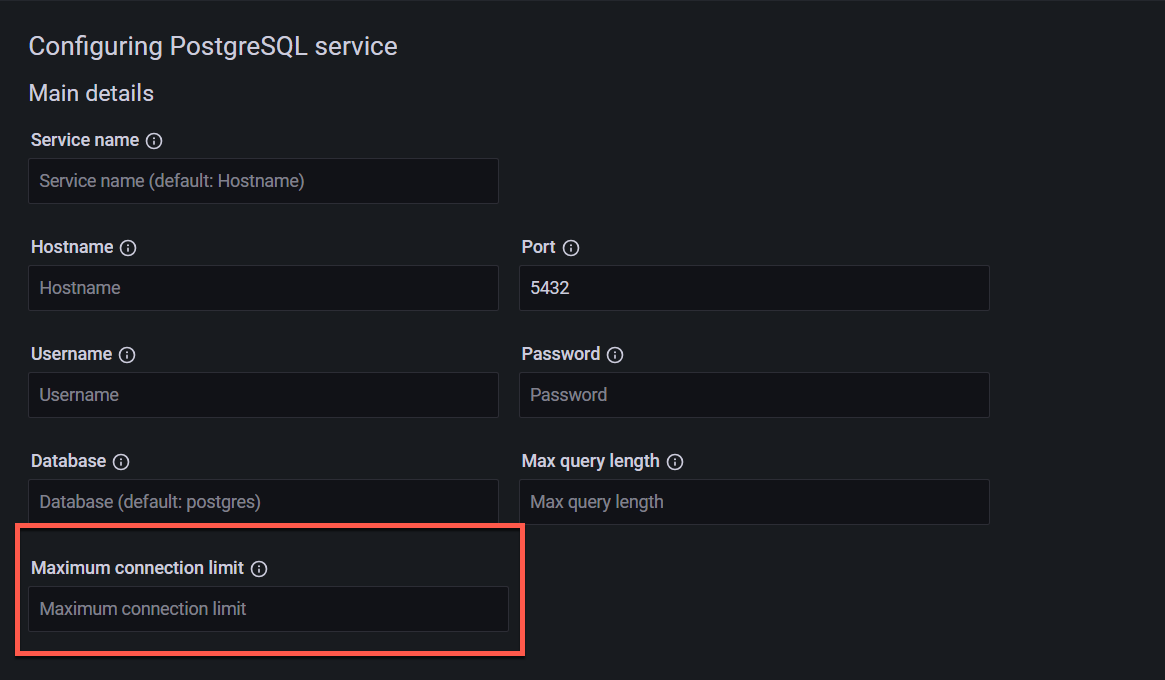
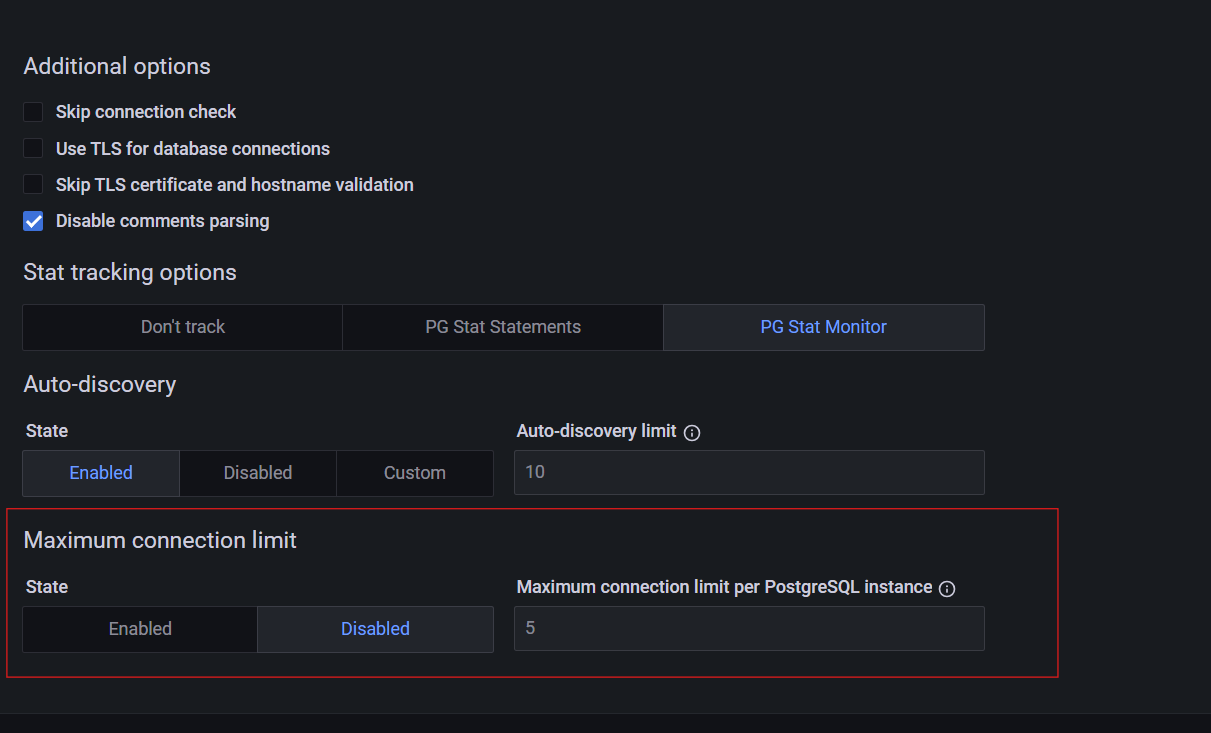
updated SCR

diff --git a/docs/release-notes/2.42.md b/docs/release-notes/2.42.md
@@ -34,16 +34,16 @@ This feature is currently accessible via the PMM API and will be integrated into
 
 ## Improved connection management for PostgreSQL Services and pmm-agent
 
-PMM now offers enhanced connection management capabilities for PostgreSQL services and the PMM Agent, to optimize resource utilization prevent potential performance issues caused by excessive connections.
+PMM now offers enhanced connection management capabilities for PostgreSQL services and the PMM Agent, to optimize resource utilization and prevent potential performance issues caused by excessive connections.
 
 ### PostgreSQL services
 
-For PostgreSQL services, you can now set a maximum limit on the number ofconnections that the PostgreSQL exporter can open to the same PostgreSQL instance.
+For PostgreSQL services, you can now set a maximum limit on the number of connections that the PostgreSQL exporter can open to the same PostgreSQL instance.
 
 This feature, previously available only through the CLI, is now also accessible through the PMM web interface as well:
 
 - PostgreSQL service: **PMM Configuration > Add Service > PostgreSQL > Configuring PostgreSQL Service**
-- RDS PostgreSQL service:  **PMM Configuration > Add Service > Amazon RDS > Discover with Amazon Credentials > RDS PostgreSQL**
+- RDS PostgreSQL service: **PMM Configuration > Add Service > Amazon RDS > Discover with Amazon Credentials > RDS PostgreSQL**
 
 ![!image](../_images/Max_Connection_Limit.png)
 
@@ -63,9 +63,8 @@ Starting with this release, pmm-agent tracks all required resources (primarily c
 
 You can change this default value by setting a parameter or environment variable when starting the pmm-agennt.
 
-
 ## Experimental PMM Self-monitoring dashboard
-  
+
 We've added a new experimental **PMM Health** dashboard to provide detailed insights into the health and performance of PMM itself.
 
 The dashboard reflects the PMM architecture and covers key components such as overall component status, node health, Query Analytics, PMM-managed, Grafana, VictoriaMetrics, ClickHouse, and PostgreSQL metrics.
@@ -86,7 +85,7 @@ We encourage you to explore these experimental dashboards and provide feedback i
 
 ![!image](../_images/MongoDB_Cluster_Summary.png)
 
-![!image](../_images/ReplSet_Dashboard_New.png) 
+![!image](../_images/ReplSet_Dashboard_New.png)
 
 ### Improvements
 
